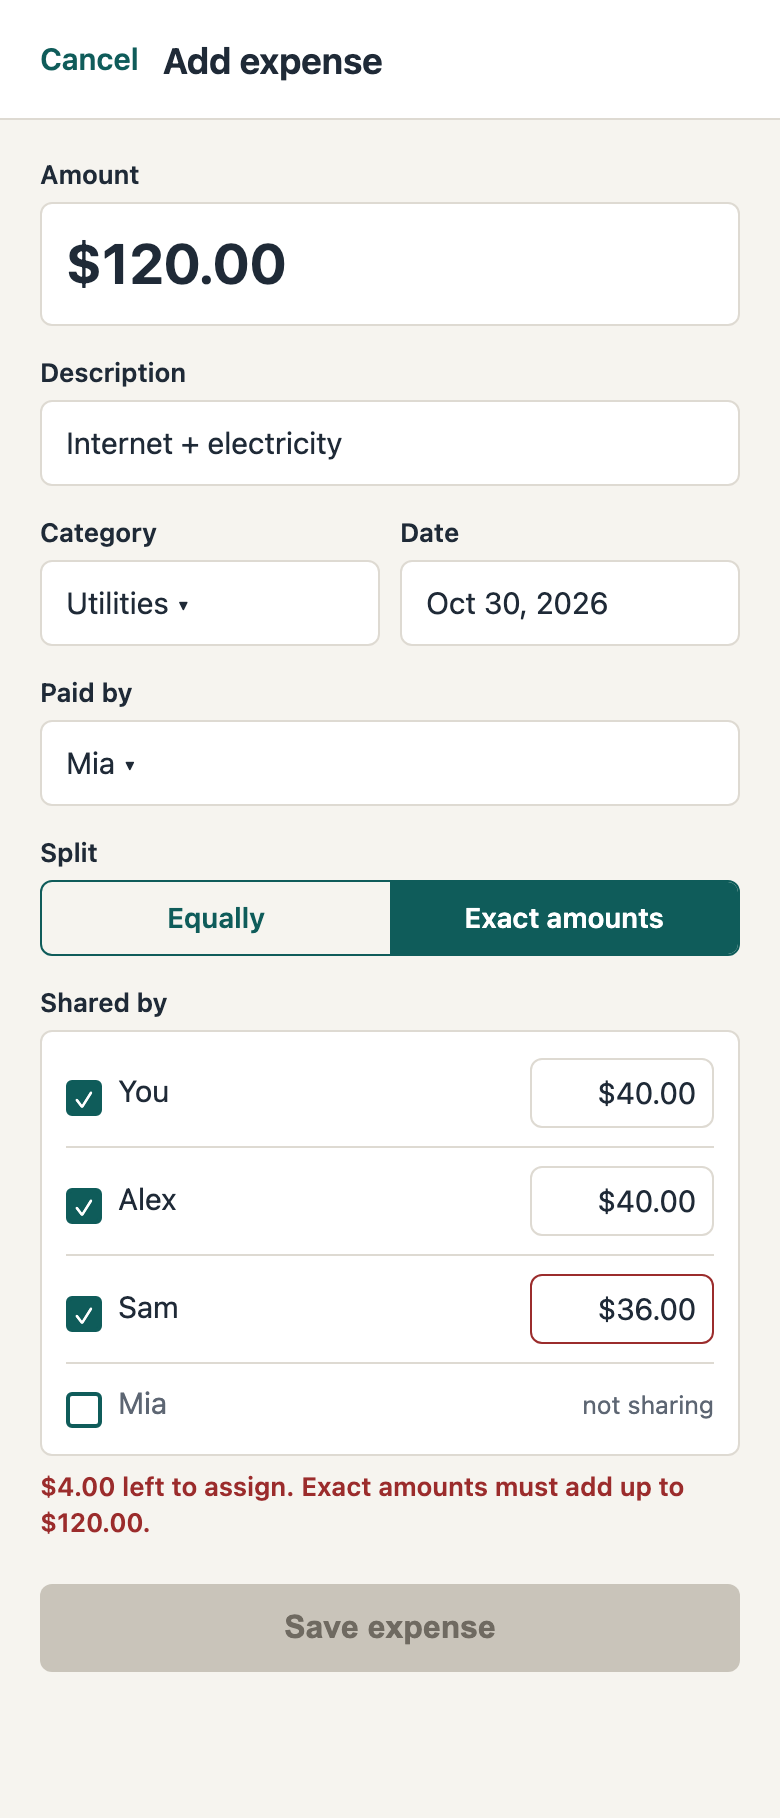
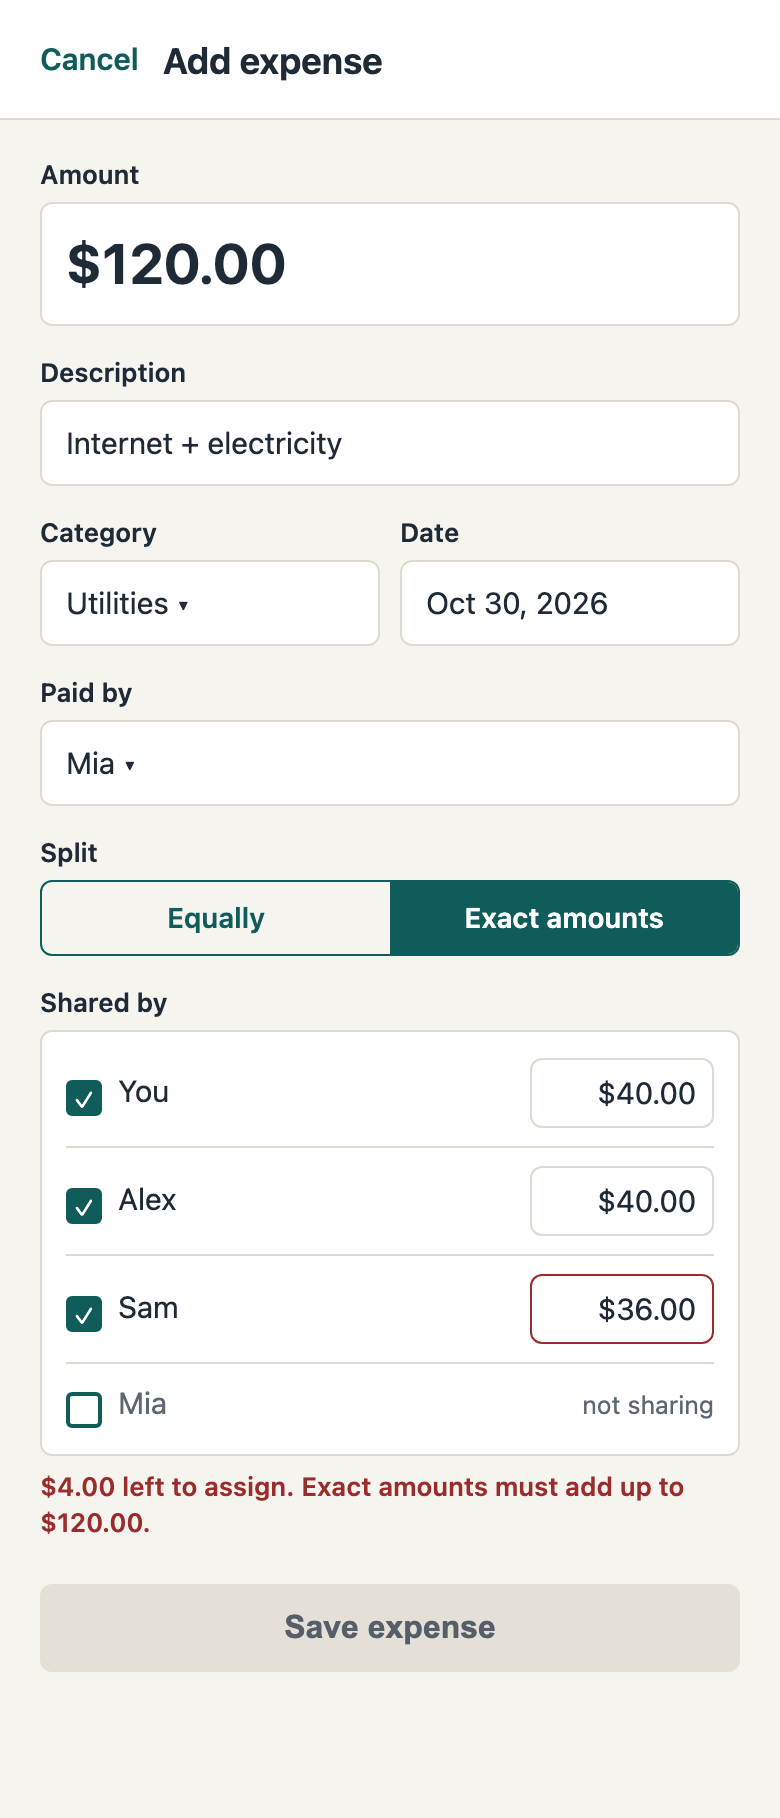
docs(design): pass contrast for disabled buttons, use every token (#5)
The first lint run had 0 errors and 3 orphaned-token warnings (line, disabled, on-disabled). Disabled colors now pass 4.5:1 (4.98:1), and the divider and disabled button are components, so every color is used. The exact-split mockup was re-rendered.

Changed region(s): [[0.0308, 0.8625, 0.9538, 0.9241]]

diff --git a/docs/design/mockup.html b/docs/design/mockup.html
@@ -344,8 +344,8 @@
           sans-serif;
       }
       .save:disabled {
-        background: #c9c4ba;
-        color: #6f6a61;
+        background: #e4e0d8;
+        color: #565e6a;
       }
       .card {
         background: var(--surface);

diff --git a/DESIGN.md b/DESIGN.md
@@ -17,8 +17,8 @@ colors:
   owed: "#0F5C5A"
   owes: "#9B2C2C"
   warn: "#8A5A00"
-  disabled: "#C9C4BA"
-  on-disabled: "#6F6A61"
+  disabled: "#E4E0D8"
+  on-disabled: "#565E6A"
 typography:
   display:
     fontFamily: system-ui, -apple-system, Segoe UI, sans-serif
@@ -104,6 +104,16 @@ components:
     rounded: "{rounded.md}"
     height: 44px
     padding: 12px
+  button-primary-disabled:
+    backgroundColor: "{colors.disabled}"
+    textColor: "{colors.on-disabled}"
+    typography: "{typography.button}"
+    rounded: "{rounded.md}"
+    height: 48px
+    padding: 12px
+  divider:
+    backgroundColor: "{colors.line}"
+    height: 1px
   input:
     backgroundColor: "{colors.surface}"
     textColor: "{colors.ink}"
@@ -188,7 +198,7 @@ The palette is a warm paper neutral, one deep teal, one clay accent, and two sta
 - **Surface (#FFFFFF):** sections, cards, form fields and the bottom navigation.
 - **Ink (#1F2A37):** headings and body text, 14.5:1 on surface.
 - **Muted (#5D6673):** captions, labels and secondary text, 5.3:1 on paper and 5.8:1 on surface. Do not use anything lighter for text.
-- **Line (#DEDAD2):** 1px dividers between sections and rows.
+- **Line (#DEDAD2):** 1px dividers between sections and rows (the `divider` component).
 - **Track (#ECE9E2):** the empty part of a budget bar.
 - **Primary (#0F5C5A):** deep teal for structure and trust: links, selected controls, the progress of a healthy budget and the avatar text. 7.8:1 on surface.
 - **Primary soft (#E3EFED):** a pale teal behind avatars.
@@ -196,7 +206,7 @@ The palette is a warm paper neutral, one deep teal, one clay accent, and two sta
 - **Owed (#0F5C5A):** an amount that someone owes you. Always paired with a plus sign and the words "owes you" or "you are owed".
 - **Owes (#9B2C2C):** an amount that you owe, and error text. Always paired with a minus sign or the words "you owe". 7.5:1 on surface.
 - **Warn (#8A5A00):** a budget past its 80% alert. Always paired with the words "Past the 80% alert". 5.9:1 on surface.
-- **Disabled (#C9C4BA) and on-disabled (#6F6A61):** a button that cannot be used yet, such as Save while an exact split is $4.00 short. Disabled controls are exempt from the contrast rule, and the reason is always written next to the button.
+- **Disabled (#E4E0D8) and on-disabled (#565E6A):** a button that cannot be used yet, such as Save while an exact split is $4.00 short. The text is 5.0:1 on its background, so it stays readable, and the reason the button is off is always written next to it.
 
 Color never carries meaning alone: owed and owes use signs and words, and budget states use words.
 
